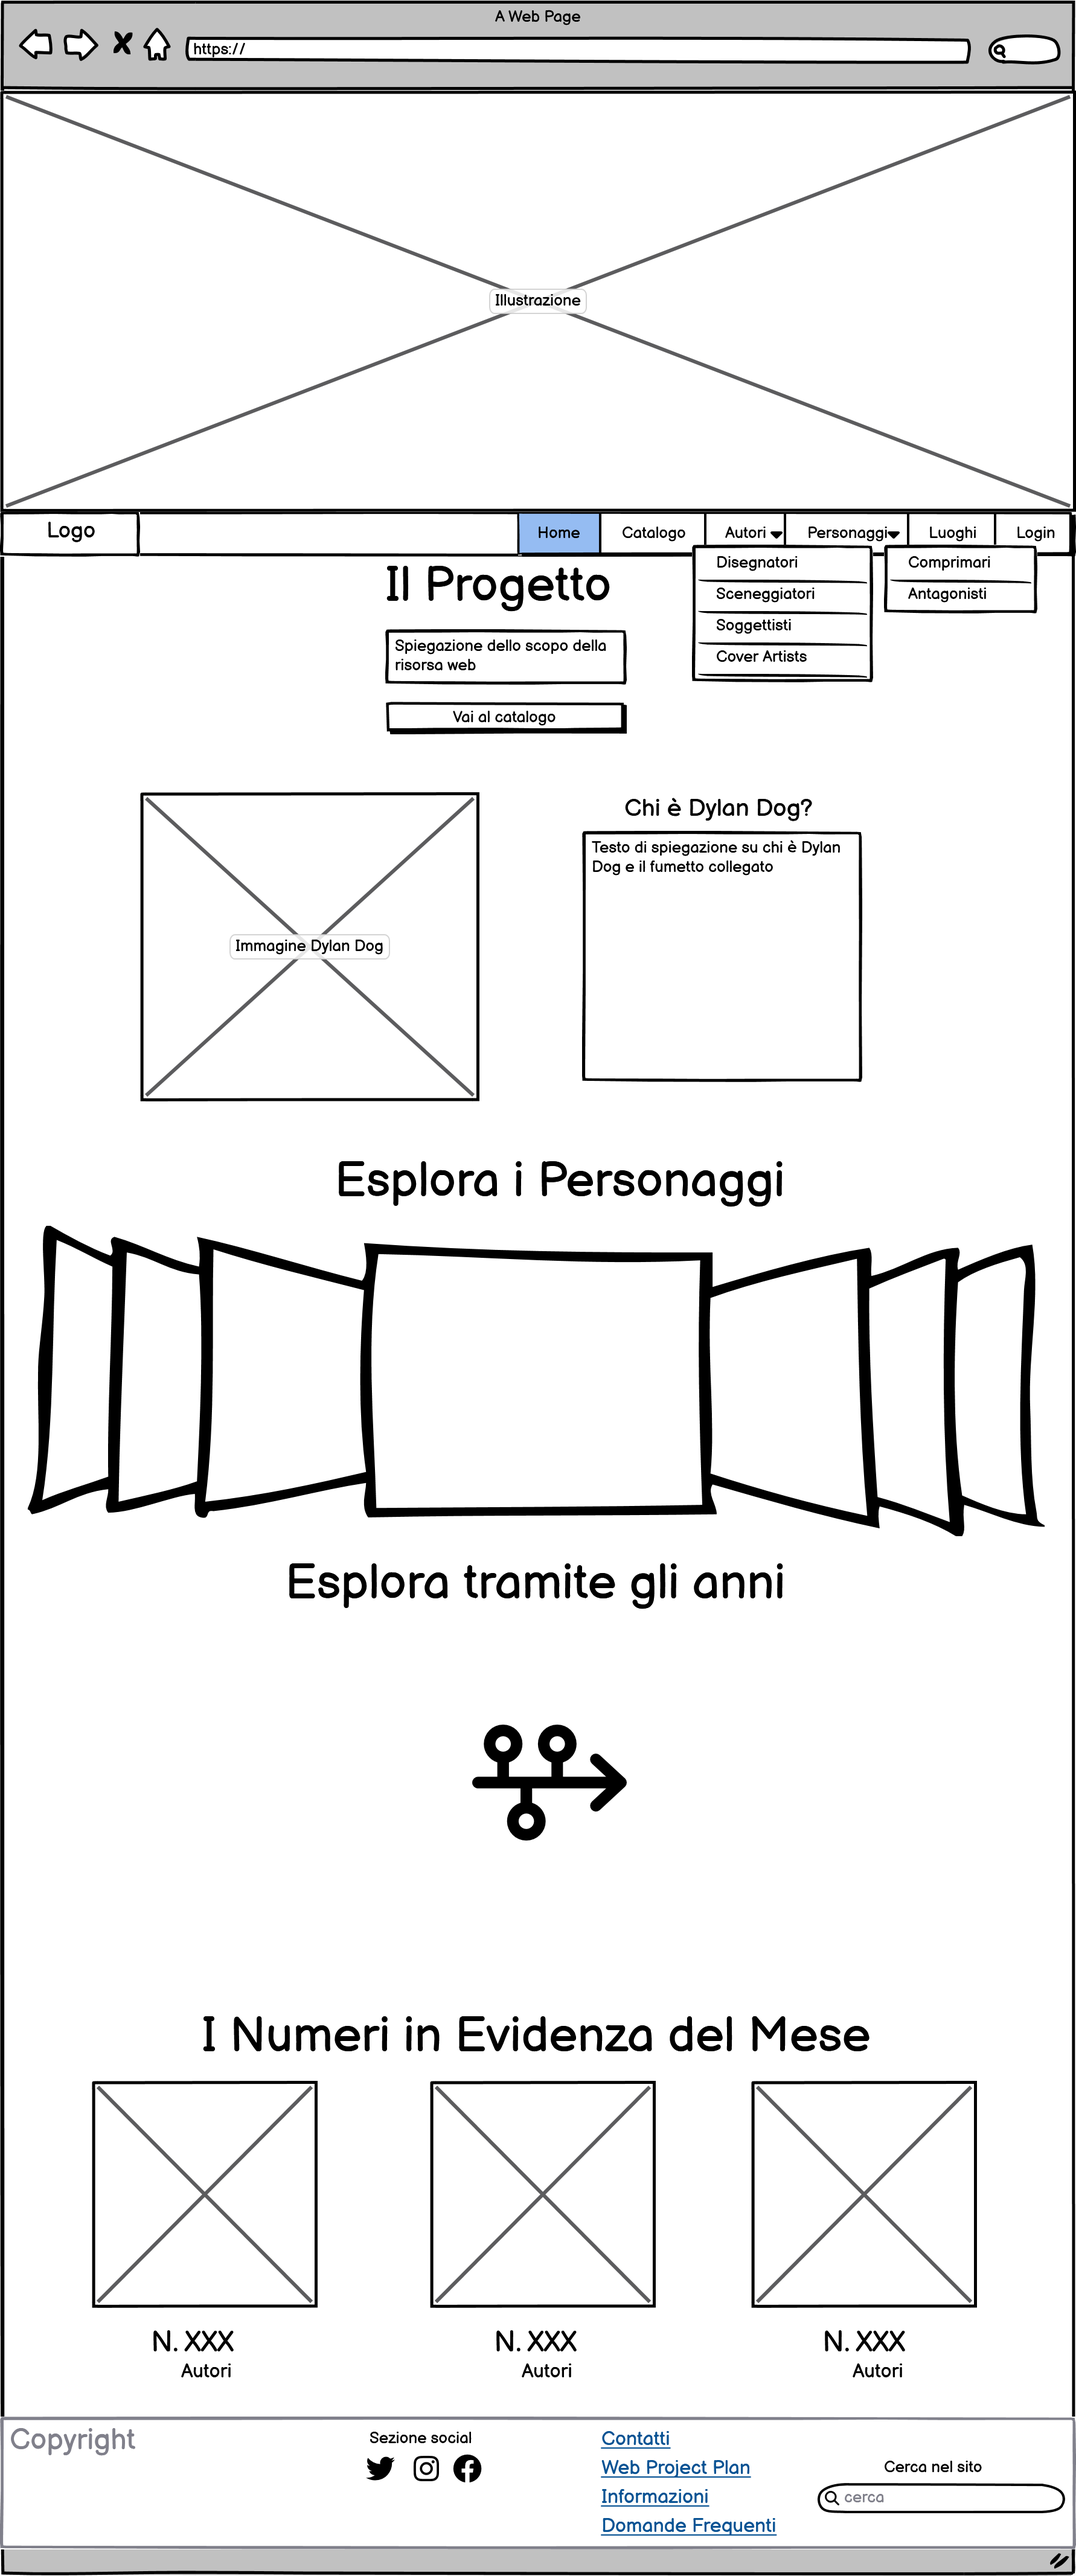
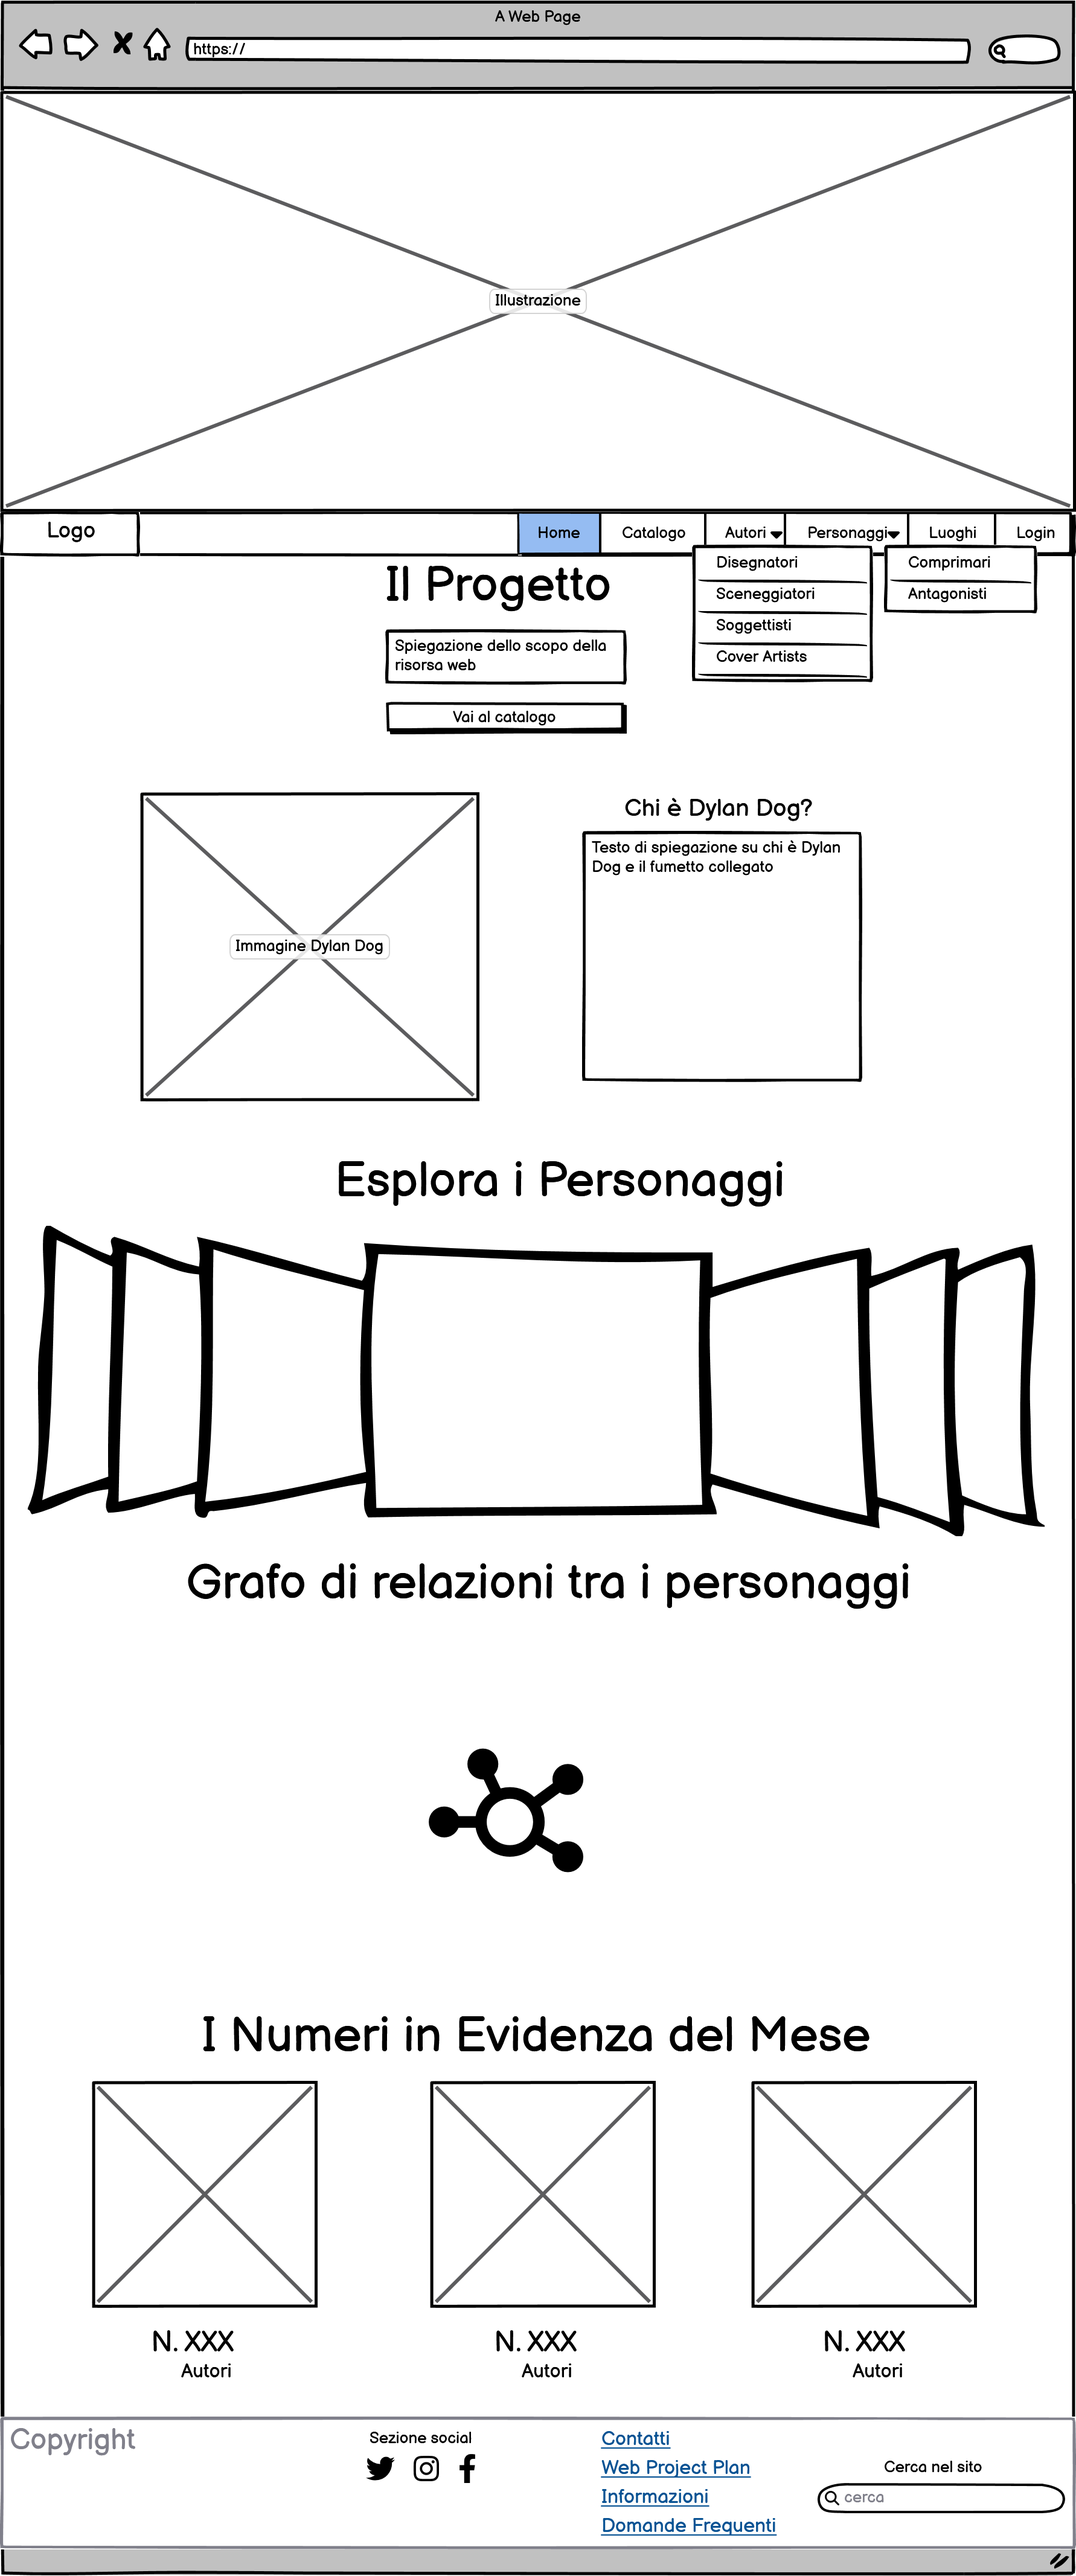
add

diff --git a/webprojectplan.html b/webprojectplan.html
@@ -51,7 +51,7 @@
                <!-- Navigazione Principale -->
                <nav class="navbar bg-dark sticky-top navbar-expand-lg border-bottom border-body" data-bs-theme="dark">
                 <div class="container-fluid">
-                  <a class="navbar-brand" href="index.html">Logo</a>
+                  <a class="navbar-brand" href="index.html"><img src="images/Logo.png" class="logo-resize"></a>
                   <button class="navbar-toggler" type="button" data-bs-toggle="collapse" data-bs-target="#navbarNavDropdown" aria-controls="navbarNavDropdown" aria-expanded="false" aria-label="Toggle navigation">
                     <span class="navbar-toggler-icon"></span>
                   </button>
@@ -450,10 +450,10 @@
                                         Scendendo troviamo il main che è diviso in 5 sezioni logiche. La prima è la sezione che presenta il progetto e permette tramite un bottone un rapido accesso al catalogo, cioè una navigazione contestuale. Sotto si trova la sezione che presenta il personaggio e fumetto di Dylan Dog. 
                                     </p>
                                     <p class="margin-leggero-left">
-                                       La terza sezione è quella che permette di esplorare rapidamente il catalogo utilizzando alcuni personaggi presenti nelle storie. Il tutto è gestito tramite un carousel di immagini che l'utente può scorrere e in aggiunta selezionare la scheda relativa al personaggio.
+                                       La terza sezione è quella che permette di esplorare rapidamente il catalogo utilizzando alcuni personaggi presenti nelle storie. Il tutto è gestito tramite un carousel di immagini che l'utente può scorrere e in aggiunta selezionare la scheda relativa al personaggio. Esiste un pulsante che permette di andare direttamente al catalogo applicando come filtro il personaggio relativo.
                                     </p>
                                     <p class="margin-leggero-left">
-                                        La quarta sezione contiene una linea del tempo per poter osservare in quali anni sono usciti degli specifici fumetti e andare direttamente alle relative schede. Nella quinta troviamo i numeri consigliati del mese, cioè una selezione di tre numeri che ogni mese cambia e permette di recarsi direttamente alla scheda interessate.
+                                        La quarta sezione contiene un grafo per poter osservare le relazioni tra i vari personaggi. Nella quinta troviamo i numeri consigliati del mese, cioè una selezione di tre numeri che ogni mese cambia e permette di recarsi direttamente alla scheda interessate.
                                      </p>
                                     <p class="margin-leggero-left">
                                         In fondo troviamo il footer con il copyright, i vari collegamenti ai social, i link di metanavigazione e anche un form che permette di esplorare il sito.
@@ -629,7 +629,7 @@
                                     7.3 Strumenti, servizi, tool e metodi aggiuntivi
                                 </h4>
                                     <p class="margin-leggero-left">
-                                        Dentro al sito sono già inclusi come servizi e tool aggiuntivi: le integrazioni social di ShareThis che permettono di raggiungere le pagine social direttamente e anche inserire elementi per l'interazione e la condivisione. Un altro elemento presente nel sito è il grafico delle relazioni tra i personaggi che permette all'utente di visualizzare in modo interattivo i personaggi,i ruoli e  i legami. Sicuramente questo grafico potrebbe essere ampliato per dare più profondità e se ne potrebbero realizzare altri come ad esempio un grafico sugli autori.
+                                        Dentro al sito sono già inclusi come servizi e tool aggiuntivi: le integrazioni social di ShareThis che permettono di raggiungere le pagine social direttamente e inserire elementi per l'interazione e la condivisione. Un altro elemento presente nel sito è il grafico delle relazioni tra i personaggi che permette all'utente di visualizzare in modo interattivo i personaggi,i ruoli e  i legami. Sicuramente questo grafico potrebbe essere ampliato per dare più profondità e se ne potrebbero realizzare altri come ad esempio un grafico sugli autori.
                                     </p>
                                     <p class="margin-leggero-left">
                                         Un altro servizio interessante potrebbe essere l'aggiunta di strumenti di analisi testuale, questo dopo aver digitalizzato i fumetti e averne estratto i testi; alcuni esempi possono essere Voyant Tools o Tag Cloud per estrarre le keywords e permettere una navigazione tramite esse. Un altra aggiunta potrebbe essere l'inclusione di Google Analytics che insieme agli strumenti di ShareThis consentono di avere tutti gli strumenti per un marketing efficace e migliorare l'indicizzazione del sito. Sempre per il discorso di marketing e indicizzazione si potrebbe aggiungere uno strumento come Visual SEO.
@@ -667,16 +667,22 @@
                                     <li>
                                         Codice relizzato con Visual Studio Code: <a href="https://app.flourish.studio/" title="FlourishStudio" target="_blank">https://app.flourish.studio/</a>
                                     </li>
+                                    <li>
+                                        Logo realizzato con Canva: <a href="https://www.canva.com/" title="Canva" target="_blank">https://www.canva.com/</a>
+                                    </li>
+                                    <li>
+                                        Favicon realizzato con Favicon.io: <a href="https://favicon.io/" title="Favicon" target="_blank">https://favicon.io/</a>
+                                    </li>
                                 </ul>
                             <h4>
                                 Testi e Immagini: 
                             </h4>
                             <ul>
                                 <li>
-                                    Immagini prese da Google immagini e i fumetti originali
+                                    Immagini prese da Google immagini e dai fumetti originali
                                 </li>
                                 <li>
-                                    Testi prodotti da te e controllati su <a href="//www.sergiobonelli.it" target="_blank" title="sito Bonelli">https://www.sergiobonelli.it</a>
+                                    Testi prodotti da me e controllati su <a href="//www.sergiobonelli.it" target="_blank" title="sito Bonelli">https://www.sergiobonelli.it</a>
                                 </li>
                             </ul>
                             <h4>

diff --git a/index.html b/index.html
@@ -27,6 +27,7 @@
         <link rel="icon" type="image/png" sizes="16x16" href="favicon/favicon-16x16.png">
         <link rel="manifest" href="favicon/site.webmanifest">
         
+        <!-- JS ShareThis-->
         <script type='text/javascript' src='https://platform-api.sharethis.com/js/sharethis.js#property=65a6b5a2fbfe1600199c5c3a&product=sop' async='async'></script>
         <!-- DublinCore -->
 
@@ -67,7 +68,7 @@
                <!-- Navigazione Principale -->
                <nav class="navbar bg-dark sticky-top navbar-expand-lg border-bottom border-body" data-bs-theme="dark">
                 <div class="container-fluid">
-                  <a class="navbar-brand" href="#">Logo</a>
+                  <a class="navbar-brand" href="#"><img src="images/Logo.png" class="logo-resize"></a>
                   <button class="navbar-toggler" type="button" data-bs-toggle="collapse" data-bs-target="#navbarNavDropdown" aria-controls="navbarNavDropdown" aria-expanded="false" aria-label="Toggle navigation">
                     <span class="navbar-toggler-icon"></span>
                   </button>
@@ -238,11 +239,7 @@
 
             <section class="container-fluid my-3">
               <div class="row">
-                <div class="col-md-6">
-                  <h1 class="txt-center">Esplora tramite la lina del tempo</h1>
-                  
-                </div>
-                <div class="col-md-6">
+                <div class="col-md-12">
                   <div class="flourish-embed flourish-network" data-src="visualisation/16474367"><script src="https://public.flourish.studio/resources/embed.js"></script></div>
                 </div>
               </div>

diff --git a/login.html b/login.html
@@ -20,10 +20,17 @@
 
         <script src="bootstrap/js/bootstrap.bundle.min.js"></script>
 
-        <!-- JS Custom -->
+        <!-- JS ShareThis -->
 
         <script type='text/javascript' src='https://platform-api.sharethis.com/js/sharethis.js#property=65a6b5a2fbfe1600199c5c3a&product=sop' async='async'></script>
         
+        <!-- Favicon -->
+
+        <link rel="apple-touch-icon" sizes="180x180" href="favicon/apple-touch-icon.png">
+        <link rel="icon" type="image/png" sizes="32x32" href="favicon/favicon-32x32.png">
+        <link rel="icon" type="image/png" sizes="16x16" href="favicon/favicon-16x16.png">
+        <link rel="manifest" href="favicon/site.webmanifest">
+
         <!-- DublinCore -->
 
         <link rel="schema.DC" href="http://purl.org/dc/elements/1.1/"/>
@@ -63,7 +70,7 @@
                <!-- Navigazione Principale -->
                <nav class="navbar bg-dark sticky-top navbar-expand-lg border-bottom border-body" data-bs-theme="dark">
                 <div class="container-fluid">
-                  <a class="navbar-brand" href="index.html">Logo</a>
+                  <a class="navbar-brand" href="index.html"><img src="images/Logo.png" class="logo-resize"></a>
                   <button class="navbar-toggler" type="button" data-bs-toggle="collapse" data-bs-target="#navbarNavDropdown" aria-controls="navbarNavDropdown" aria-expanded="false" aria-label="Toggle navigation">
                     <span class="navbar-toggler-icon"></span>
                   </button>

diff --git a/items/item-1.html b/items/item-1.html
@@ -16,11 +16,16 @@
 
         <link rel="stylesheet" href="../bootstrap/css/bootstrap.min.css"/>
 
-        <!-- JS -->
-
-        <!-- JS  -->
+        <!-- JS ShareThis -->
 
         <script type='text/javascript' src='https://platform-api.sharethis.com/js/sharethis.js#property=65a6b5a2fbfe1600199c5c3a&product=sop' async='async'></script>
+
+        <!-- Favicon -->
+
+        <link rel="apple-touch-icon" sizes="180x180" href="favicon/apple-touch-icon.png">
+        <link rel="icon" type="image/png" sizes="32x32" href="favicon/favicon-32x32.png">
+        <link rel="icon" type="image/png" sizes="16x16" href="favicon/favicon-16x16.png">
+        <link rel="manifest" href="favicon/site.webmanifest">
 
         <!-- Bootstrap JS -->
 
@@ -48,7 +53,7 @@
             <!-- Navigazione Principale -->
             <nav class="navbar bg-dark sticky-top navbar-expand-lg border-bottom border-body" data-bs-theme="dark">
               <div class="container-fluid">
-                <a class="navbar-brand" href="../index.html">Logo</a>
+                <a class="navbar-brand" href="../index.html"><img src="images/Logo.png" class="logo-resize"></a>
                 <button class="navbar-toggler" type="button" data-bs-toggle="collapse" data-bs-target="#navbarNavDropdown" aria-controls="navbarNavDropdown" aria-expanded="false" aria-label="Toggle navigation">
                   <span class="navbar-toggler-icon"></span>
                 </button>

diff --git a/luoghi.html b/luoghi.html
@@ -20,9 +20,16 @@
 
         <script src="bootstrap/js/bootstrap.bundle.min.js"></script>
 
-        <!-- JS  -->
+        <!-- JS ShareThis -->
 
         <script type='text/javascript' src='https://platform-api.sharethis.com/js/sharethis.js#property=65a6b5a2fbfe1600199c5c3a&product=sop' async='async'></script>
+
+        <!-- Favicon -->
+
+        <link rel="apple-touch-icon" sizes="180x180" href="favicon/apple-touch-icon.png">
+        <link rel="icon" type="image/png" sizes="32x32" href="favicon/favicon-32x32.png">
+        <link rel="icon" type="image/png" sizes="16x16" href="favicon/favicon-16x16.png">
+        <link rel="manifest" href="favicon/site.webmanifest">
 
         <!-- DublinCore -->
 
@@ -49,7 +56,7 @@
                <!-- Navigazione Principale -->
                <nav class="navbar bg-dark sticky-top navbar-expand-lg border-bottom border-body" data-bs-theme="dark">
                 <div class="container-fluid">
-                  <a class="navbar-brand" href="#">Logo</a>
+                  <a class="navbar-brand" href="#"><img src="images/Logo.png" class="logo-resize"></a>
                   <button class="navbar-toggler" type="button" data-bs-toggle="collapse" data-bs-target="#navbarNavDropdown" aria-controls="navbarNavDropdown" aria-expanded="false" aria-label="Toggle navigation">
                     <span class="navbar-toggler-icon"></span>
                   </button>

diff --git a/catologo.html b/catologo.html
@@ -24,6 +24,13 @@
 
         <script type='text/javascript' src='https://platform-api.sharethis.com/js/sharethis.js#property=65a6b5a2fbfe1600199c5c3a&product=sop' async='async'></script>
 
+        <!-- Favicon -->
+
+        <link rel="apple-touch-icon" sizes="180x180" href="favicon/apple-touch-icon.png">
+        <link rel="icon" type="image/png" sizes="32x32" href="favicon/favicon-32x32.png">
+        <link rel="icon" type="image/png" sizes="16x16" href="favicon/favicon-16x16.png">
+        <link rel="manifest" href="favicon/site.webmanifest">
+
         <!-- DublinCore-->
 
         <link rel="schema.DC" href="http://purl.org/dc/elements/1.1/"/>
@@ -50,7 +57,7 @@
             <!-- Navigazione Principale -->
             <nav class="navbar bg-dark sticky-top navbar-expand-lg border-bottom border-body" data-bs-theme="dark">
               <div class="container-fluid">
-                <a class="navbar-brand" href="index.html">Logo</a>
+                <a class="navbar-brand" href="index.html"><img src="images/Logo.png" class="logo-resize"></a>
                 <button class="navbar-toggler" type="button" data-bs-toggle="collapse" data-bs-target="#navbarNavDropdown" aria-controls="navbarNavDropdown" aria-expanded="false" aria-label="Toggle navigation">
                   <span class="navbar-toggler-icon"></span>
                 </button>

diff --git a/style/style.css b/style/style.css
@@ -4,6 +4,13 @@ body {
     font-family: 'Roboto', sans-serif !important;
 }
 
+/* Logo resizie */
+
+.logo-resize {
+    height: 8%;
+    width: 8%;
+}
+
 /* background */
 .bg-dark-red {
     background-color: #e80000;
